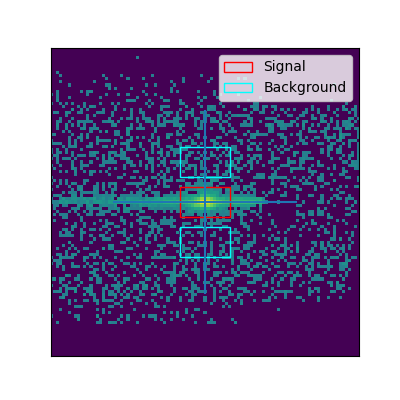
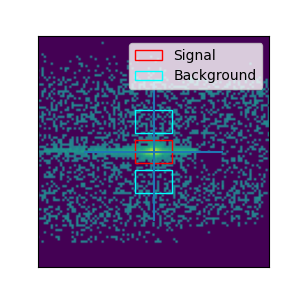
Added new graphs

diff --git a/_projects/1_project_SURF.md b/_projects/1_project_SURF.md
@@ -76,4 +76,61 @@ After that --- recalculate incident angle into $ q_z $ value for each point in t
 Next, a correct value of the incident beam intensity can be obtained from a z-scan, performed with the same filter as the initial part of reflectivity.
 Finally, a footprint correction can be performed, taking into account sample and beam size, with points having reflectivity>1 trimmed.
 
+### Initialize the processing pipeline
 
+First, we need to import the processing library itself and initialize our class with relevant parameters
+``` python
+from ESRF_ID10_SURF.XRR import XRR
+import matplotlib.pyplot as plt
+
+FileDir = '/mnt/data/ls3582/id10-surf/20251120/RAW_DATA/DPPC_0PS/DPPC_0PS_0002/'
+FileName = 'DPPC_0PS_0002.h5'
+
+file = FileDir+FileName
+
+SavingDir = FileDir.replace('RAW_DATA', 'PROCESSED_DATA')  
+### optional. If this argument is not given to the class, data will be saved in the folder where the script runs
+
+zgH_ScanN_list = [21]     ### z-scan for normalization of intensity with the same filter
+refl_ScanN_list = [22,23] ### actual XRR scans
+```
+
+Next, we need to create instances of our class, each will carry its own type of measurement. We will need two: one for z-scan to extract true intensity and one for the actual XRR measurement.
+
+### ROI definition and integration
+
+To know which part of the detector is the center (where the direct beam hits) we need to pass coordinates to the class instance.
+Also, we can manually define size of the region of interest for our signal, e.g. when the sample is slightly bent and reflected beam is spread across several pixels.
+Same goes for the gap between signal and background ROIs, which can be specified using bckg_gap parameter.
+
+```python
+(PX0, PY0) = (401, 300)
+(dPX, dPY) = (8, 5)
+bckg_gap = 3
+monitor_name = 'ionch2'
+```
+Now we can initialize the measurement instances:
+```python
+refl = XRR(file, refl_ScanN_list, alpha_i_name='mu', PX0=PX0, PY0=PY0, dPX=dPX, dPY =dPY, bckg_gap=bckg_gap, monitor_name=monitor_name ,saving_dir=SavingDir)
+zgH = XRR(file, zgH_ScanN_list, alpha_i_name='zgH', PX0=PX0, PY0=PY0, dPX=dPX, dPY =dPY, bckg_gap=bckg_gap, monitor_name=monitor_name)
+```
+
+### Detector image
+
+Any detector image can be diagnosed with 
+
+```python 
+refl.show_detector_image(50)
+plt.xlim(200, 450)
+```
+![Detector image with ROIs highlited](/assets/img/SURF_XRR_det_rois.png)
+On this image shadow from slits, detector gaps and ROIs can be clearly seen.
+
+### Intensity integration
+Let's integrate the intensity in ROIs and plot it together:
+
+![Integrated intensity](/assets/img/SURF_raw_count_bckg.png)
+
+### Subtract the background
+
+![Background-subtracted intensity](/assets/img/SURF_raw_count_bckg_sub.png)
